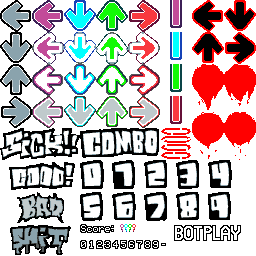
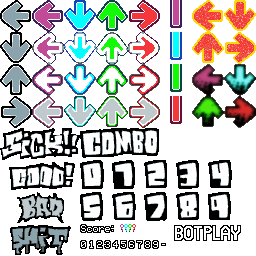
static and phantom notes work
https://www.youtube.com/watch?v=3VtHXnLPTls&ab_channel=eazyone83
 that is how i felt after

Changed region(s): [[0.625, 0.0, 1.0, 0.625]]

diff --git a/src/stage.c b/src/stage.c
@@ -82,6 +82,8 @@ static const StageDef stage_defs[StageId_Max] = {
 //Stage state
 Stage stage;
 
+int drain = 0;
+
 //Stage music functions
 static void Stage_StartVocal(void)
 {
@@ -300,7 +302,7 @@ static void Stage_NoteCheck(PlayerState *this, u8 type)
 	//Perform note check
 	for (Note *note = stage.cur_note;; note++)
 	{
-		if (!(note->type & NOTE_FLAG_MINE | NOTE_FLAG_AMOGUS))
+		if (!(note->type & (NOTE_FLAG_MINE | NOTE_FLAG_AMOGUS)))
 		{
 			//Check if note can be hit
 			fixed_t note_fp = (fixed_t)note->pos << FIXED_SHIFT;
@@ -362,10 +364,39 @@ static void Stage_NoteCheck(PlayerState *this, u8 type)
 			note->type |= NOTE_FLAG_HIT;
 				
 			this->health -= 230;
+			drain = 400;
 				
 			this->character->set_anim(this->character, note_anims[type & 0x3][1]);
 
 			this->arrow_hitan[type & 0x3] = -1;
+			return;
+			
+			#ifdef PSXF_NETWORK
+				if (stage.mode >= StageMode_Net1)
+				{
+					//Send note hit packet
+					Packet note_hit;
+					note_hit[0] = PacketType_NoteHit;
+					
+					u16 note_i = note - stage.notes;
+					note_hit[1] = note_i >> 0;
+					note_hit[2] = note_i >> 8;
+					
+					note_hit[3] = this->score >> 0;
+					note_hit[4] = this->score >> 8;
+					note_hit[5] = this->score >> 16;
+					note_hit[6] = this->score >> 24;
+					
+					/*
+					note_hit[7] = 0xFF;
+					
+					note_hit[8] = this->combo >> 0;
+					note_hit[9] = this->combo >> 8;
+					*/
+					
+					Network_Send(&note_hit);
+				}
+			#endif
 			return;
 		}
 		else
@@ -383,9 +414,9 @@ static void Stage_NoteCheck(PlayerState *this, u8 type)
 			note->type |= NOTE_FLAG_HIT;
 			
 			if (stage.stage_id == StageId_Clwn_4)
-				this->health = -0x7000;
+				this->health += 230;
 			else
-				this->health -= 2000;
+				this->health += 230;
 			if (this->character->spec & CHAR_SPEC_MISSANIM)
 				this->character->set_anim(this->character, note_anims[type & 0x3][2]);
 			else
@@ -559,7 +590,7 @@ static void Stage_ProcessPlayer(PlayerState *this, Pad *pad, boolean playing)
 					break;
 				if (note_fp + stage.late_safe < stage.note_scroll)
 					continue;
-				if ((note->type & NOTE_FLAG_MINE) || (note->type & NOTE_FLAG_OPPONENT) != i)
+				if ((note->type & NOTE_FLAG_AMOGUS) || (note->type & NOTE_FLAG_OPPONENT) != i)
 					continue;
 				
 				//Handle note hit
@@ -839,7 +870,35 @@ static void Stage_DrawNotes(void)
 				continue;
 			
 			//Miss note if player's note
-			if (!(note->type & (bot | NOTE_FLAG_HIT | NOTE_FLAG_MINE)))
+			if ((note->type == NOTE_FLAG_MINE))
+			{
+				if (stage.mode < StageMode_Net1 || i == ((stage.mode == StageMode_Net1) ? 0 : 1))
+				{ 
+					this->health -= 2000;
+					Stage_CutVocal();
+					Stage_MissNote(this);
+			   
+					//Send miss packet
+					#ifdef PSXF_NETWORK
+						if (stage.mode >= StageMode_Net1)
+						{
+							//Send note hit packet
+							Packet note_hit;
+							note_hit[0] = PacketType_NoteMiss;
+							note_hit[1] = 0xFF;
+							
+							note_hit[2] = this->score >> 0;
+							note_hit[3] = this->score >> 8;
+							note_hit[4] = this->score >> 16;
+							note_hit[5] = this->score >> 24;
+							
+							Network_Send(&note_hit);
+						}
+					#endif
+				}
+			}
+			
+			if (!(note->type & (bot | NOTE_FLAG_HIT | NOTE_FLAG_AMOGUS)))
 			{
 				if (stage.mode < StageMode_Net1 || i == ((stage.mode == StageMode_Net1) ? 0 : 1))
 				{
@@ -950,6 +1009,32 @@ static void Stage_DrawNotes(void)
 					}
 				}
 			}
+			else if (note->type & NOTE_FLAG_AMOGUS)
+			{
+				#ifdef STAGE_FUNKYFRIDAY
+				if (1)
+					continue;
+				#endif
+				//Don't draw if already hit
+				if (note->type & NOTE_FLAG_HIT)
+					continue;
+				
+				//Draw note body
+				note_src.x = 192 + ((note->type & 0x1) << 5);
+				note_src.y = 65 + ((note->type & 0x2) << 4);
+				note_src.w = 32;
+				note_src.h = 32;
+				
+				note_dst.x = note_x[(note->type & 0x7) ^ stage.note_swap] - FIXED_DEC(16,1);
+				note_dst.y = y - FIXED_DEC(16,1);
+				note_dst.w = note_src.w << FIXED_SHIFT;
+				note_dst.h = note_src.h << FIXED_SHIFT;
+				
+				if (stage.downscroll)
+					note_dst.y = -note_dst.y - note_dst.h;
+				Stage_DrawTex(&stage.tex_hud0, &note_src, &note_dst, stage.bump);
+			}
+			
 			else if (note->type & NOTE_FLAG_MINE)
 			{
 				//Don't draw if already hit
@@ -970,39 +1055,6 @@ static void Stage_DrawNotes(void)
 				if (stage.downscroll)
 					note_dst.y = -note_dst.y - note_dst.h;
 				Stage_DrawTex(&stage.tex_hud0, &note_src, &note_dst, stage.bump);
-				
-				if (stage.stage_id == StageId_Clwn_4)
-				{
-					//Draw note halo
-					note_src.x = 160;
-					note_src.y = 128 + ((animf_count & 0x3) << 3);
-					note_src.w = 32;
-					note_src.h = 8;
-					
-					note_dst.y -= FIXED_DEC(6,1);
-					note_dst.h >>= 2;
-					
-					Stage_DrawTex(&stage.tex_hud0, &note_src, &note_dst, stage.bump);
-				}
-				else
-				{
-					//Draw note fire
-					note_src.x = 192 + ((animf_count & 0x1) << 5);
-					note_src.y = 64 + ((animf_count & 0x2) * 24);
-					note_src.w = 32;
-					note_src.h = 48;
-					
-					if (stage.downscroll)
-					{
-						note_dst.y += note_dst.h;
-						note_dst.h = note_dst.h * -3 / 2;
-					}
-					else
-					{
-						note_dst.h = note_dst.h * 3 / 2;
-					}
-					Stage_DrawTex(&stage.tex_hud0, &note_src, &note_dst, stage.bump);
-				}
 			}
 			else
 			{
@@ -1176,7 +1228,7 @@ static void Stage_LoadChart(void)
 	stage.player_state[1].max_score = 0;
 	for (Note *note = stage.notes; note->pos != 0xFFFF; note++)
 	{
-		if (note->type & (NOTE_FLAG_SUSTAIN | NOTE_FLAG_MINE))
+		if (note->type & (NOTE_FLAG_SUSTAIN | NOTE_FLAG_MINE | NOTE_FLAG_AMOGUS))
 			continue;
 		if (note->type & NOTE_FLAG_OPPONENT)
 			stage.player_state[1].max_score += 35;
@@ -1231,6 +1283,8 @@ static void Stage_LoadState(void)
 	stage.flag = STAGE_FLAG_VOCAL_ACTIVE;
 	
 	stage.gf_speed = 1 << 2;
+	
+	drain = 0;
 	
 	stage.state = StageState_Play;
 	
@@ -1543,6 +1597,14 @@ void Stage_Tick(void)
 				
 				bot_dst.w = bot_fill.w << FIXED_SHIFT;
 				Stage_DrawTex(&stage.tex_hud0, &bot_fill, &bot_dst, stage.bump);
+			}
+			
+			//drain effect
+			if (drain > 0)
+			{
+				drain -= 1;
+				if (stage.player_state[0].health >= 1)
+					stage.player_state[0].health -= 20;
 			}
 
 			//Clear per-frame flags
